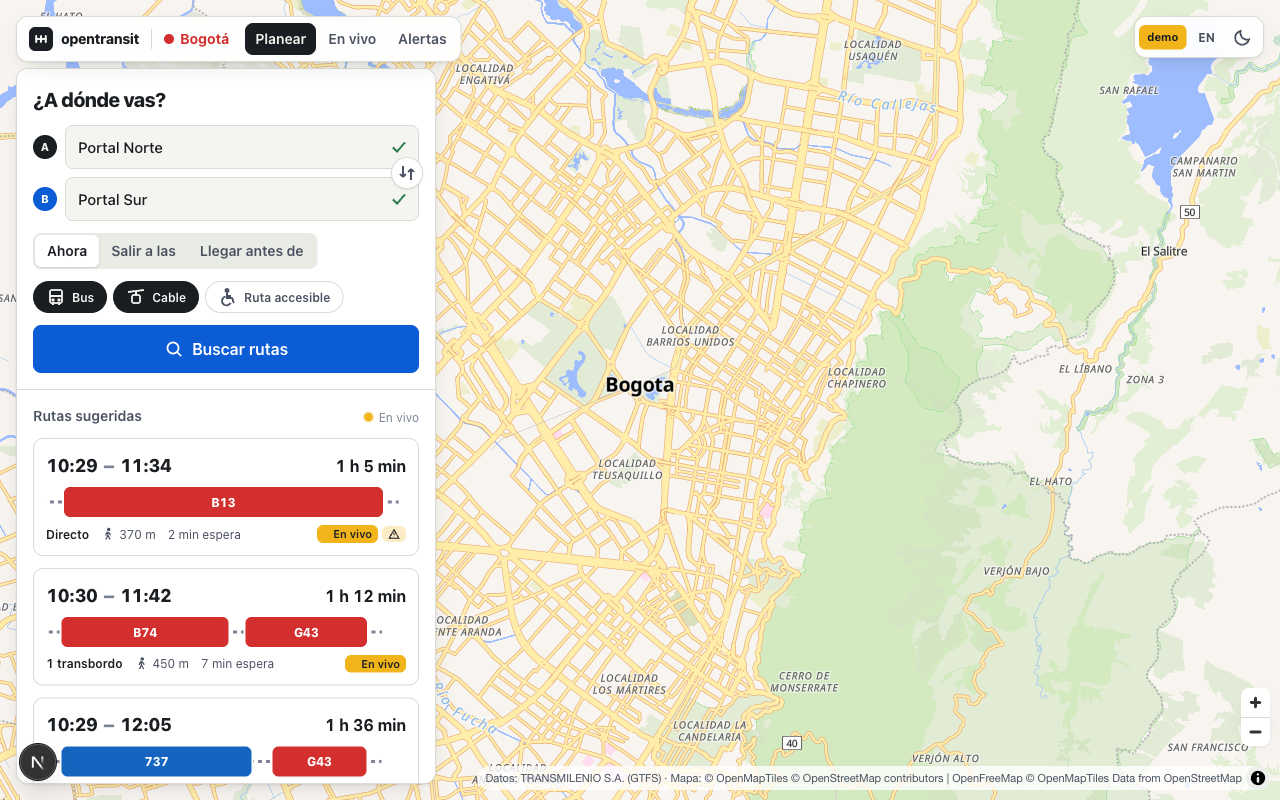
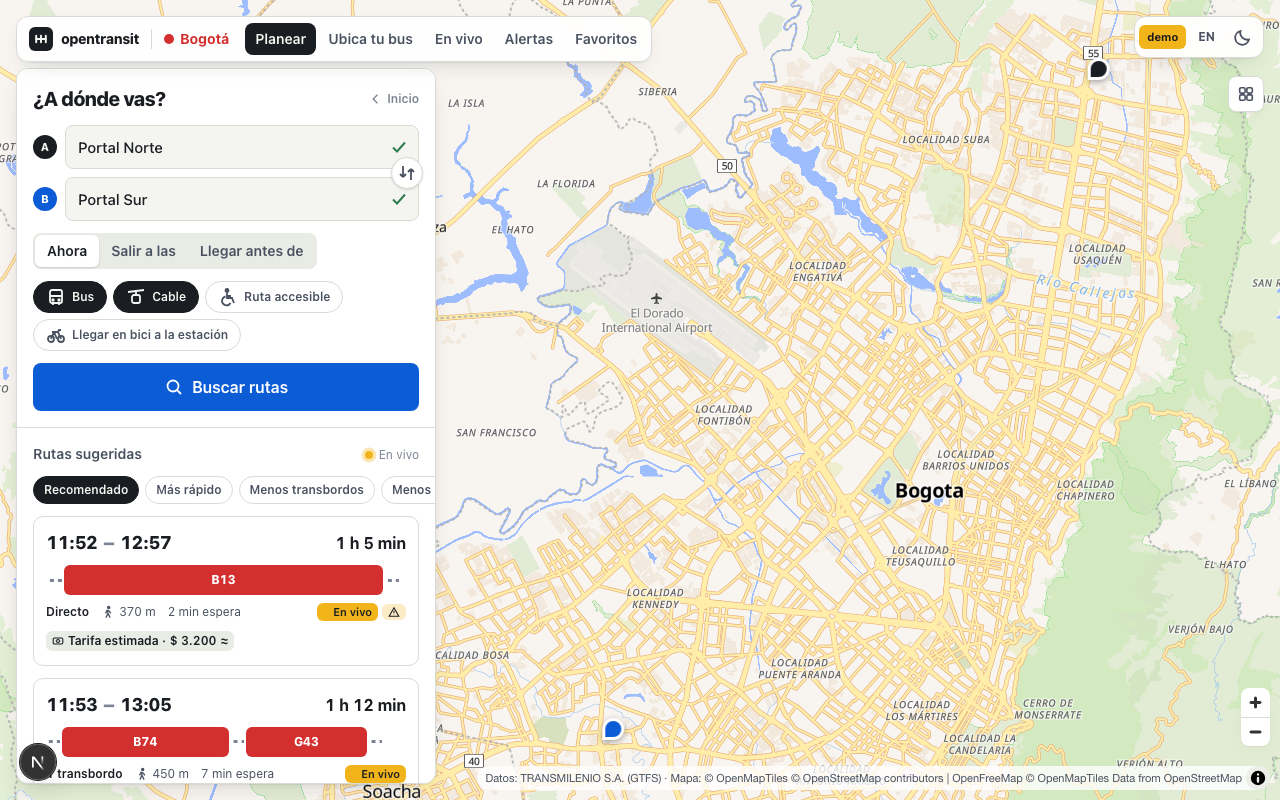
Docs: v1.1 README, screenshot script with warm-up and new screens
Claude-Session: https://claude.ai/code/session_01SDzEabQrP5XzwyWhHfsXyV

diff --git a/README.md b/README.md
@@ -7,31 +7,47 @@ This repo is the browser UI only. It talks to [`opentransit-api`](../opentransit
 else with [`opentransit-mobile`](../opentransit-mobile) (Flutter) besides the API contract.
 
 <p>
-  <img src="docs/screenshots/planner-desktop.png" alt="Planner with itineraries" width="640">
+  <img src="docs/screenshots/hub-desktop.png" alt="Home hub: question-led tiles, nearby stops, notices" width="640">
 </p>
 <p>
-  <img src="docs/screenshots/itinerary-mobile.png" alt="Itinerary detail on mobile" width="180">
-  <img src="docs/screenshots/planner-mobile.png" alt="Planner on mobile" width="180">
-  <img src="docs/screenshots/live-mobile.png" alt="Live buses on mobile" width="180">
-  <img src="docs/screenshots/stop-mobile.png" alt="Stop departures on mobile" width="180">
+  <img src="docs/screenshots/hub-mobile.png" alt="Home hub on mobile" width="150">
+  <img src="docs/screenshots/next-mobile.png" alt="Ubica tu bus on mobile" width="150">
+  <img src="docs/screenshots/stop-mobile.png" alt="Arrival board on mobile" width="150">
+  <img src="docs/screenshots/itinerary-mobile.png" alt="Itinerary with estimated fare on mobile" width="150">
+  <img src="docs/screenshots/favorites-mobile.png" alt="Favorites on mobile" width="150">
+</p>
+<p>
+  <img src="docs/screenshots/next-desktop.png" alt="Ubica tu bus: station, route, next buses with live/scheduled labels and ETA-tinted markers" width="640">
 </p>
 
-The shots above use mock data. `docs/screenshots/*-live-api.png` were taken against a running
-`opentransit-api` with the live Bogotá GTFS + GTFS-Realtime feeds (5 real itineraries, ~5,900 buses on the stream).
+The shots above use mock data (`pnpm screenshots`). `docs/screenshots/*-live-api.png` are taken against a running
+`opentransit-api` with the live Bogotá GTFS + GTFS-Realtime feeds.
 
 ## What it does
 
 | Route | Screen |
 |---|---|
 | `/` | City picker (auto-redirects when the API serves one city) |
-| `/{city}` | Map + planner: origin/destination with autocomplete, "use my location", pick on map, depart/arrive time, mode chips, accessible trips, itinerary cards, itinerary detail with leg timeline, walk directions, realtime badges and alerts; live buses on the itinerary's routes |
-| `/{city}/stops/{stopId}` | Stop/station page with departures (auto-refresh every 20 s), routes, nearby stops |
-| `/{city}/routes/{routeId}` | Route patterns on the map, stop list, live vehicles, alerts |
-| `/{city}/live` | Whole fleet in real time (SSE stream with deltas), filter by component or route, click a bus for details |
-| `/{city}/alerts` | Service alerts, most severe first |
+| `/{city}` | **Home hub** ("Hola, ¿qué quieres consultar?"): tiles for every module, Casa/Trabajo shortcuts, "mensajes de interés" carousel (severity-sorted, dismissible, capped impressions), nearby stations card, recent trips, agency services |
+| `/{city}?view=plan` | **Planner**: origin/destination with nearby-first autocomplete, "use my location", pick on map, depart/arrive time, mode chips, accessible trips, "Llegar en bici a la estación", sorting chips (más rápido · menos transbordos · menos caminata · más económico · salida más próxima), itinerary cards with **Tarifa estimada**, itinerary detail with leg timeline, walk directions, live/scheduled badges, service-hours warnings, alerts, **Iniciar viaje** follow-along; live buses on the itinerary's routes, interpolated between frames |
+| `/{city}/next` | **Ubica tu bus**: station → route → next buses, each row labeled En vivo / Por programación / Estimado, buses on the map tinted by ETA bucket (≤5 / ≤10 / ≤15 min) |
+| `/{city}/stops/{stopId}` | **Arrival board** grouped by route ("Siguiente en 5 min · luego 10, 15 y 20"), freshness label, ETA-tinted buses heading here, routes, honest accessibility block ("dato no verificado" when the feed value is a blanket default), platforms, nearby stops, QR code, PQRS link, favorite star |
+| `/{city}/routes` | Route finder by code or name, filtered by component, with service hours |
+| `/{city}/routes/{routeId}` | Route patterns on the map, stop list, live vehicles, service window ("Fuera de horario · próximo 04:00"), alerts, QR code, favorite star |
+| `/{city}/live` | Whole fleet in real time (SSE stream with deltas, interpolated motion), filter by component or route, `?stop=` tints buses by ETA to that stop, click a bus for details |
+| `/{city}/favorites` | Casa, Trabajo and custom places, favorite stops with their next departures, favorite routes with service hours, recent trips — all local to the browser |
+| `/{city}/alerts` | Service alerts, most severe first, with the agency's official PQRS channel |
 | `/about` | Project, stack, data attribution |
 
-Planner state lives in the URL (`?from=lat,lon&fromName=…&to=…&time=…&arriveBy=1&modes=…&wheelchair=1&it=0`),
+Every map has a **Servicios** toggle (bike parking, toilets, ATMs, health points, libraries from `/pois`).
+Component taxonomy (Troncal, Alimentador, Dual, Zonal, Cable…) with its icons and colors comes from `city.components`.
+Remote config from `/v1/cities/{city}` drives poll intervals, feature flags (modules disappear from the nav and the hub),
+and a maintenance banner. Deep links (`/{city}/stops/{id}`, `/{city}/routes/{id}`, `/{city}/plan…`) are the canonical
+URLs printed in the QR codes; the mobile app claims them as App Links.
+
+Where these ideas come from: the v1.1 feature plan in `../ROADMAP-v1.1.md` (TransMi App and Maas by Vettica, analysed in `../REFERENCE-APPS.md`).
+
+Planner state lives in the URL (`?from=lat,lon&fromName=…&to=…&time=…&arriveBy=1&modes=…&wheelchair=1&bike=1&it=0&view=plan`),
 so every plan is a shareable link. Spanish by default, English with one click. Light/dark theme. PWA manifest.
 
 Nothing city-specific is hardcoded: name, colors, timezone, modes, feature flags and attribution come from the
@@ -45,6 +61,7 @@ cp .env.example .env.local
 
 pnpm dev:mock     # realistic Bogotá fixtures, no backend needed → http://localhost:3000
 pnpm dev          # against NEXT_PUBLIC_API_URL (default http://localhost:8001)
+# if 3000 is taken: pnpm dev:mock -p 3100
 ```
 
 `pnpm build && pnpm start` for production, or `docker build -t opentransit-web .`
@@ -63,9 +80,10 @@ Both are inlined at build time (they are `NEXT_PUBLIC_*`), so the Docker image b
 
 `NEXT_PUBLIC_MOCK=1` swaps the fetch layer for `src/mocks/handlers.ts`, which answers every contract endpoint with
 Bogotá-shaped data: 60 stops along the real Autopista Norte / Av. Caracas / NQS corridors, 12 routes, three
-itineraries Portal Norte → Portal Sur (direct, one transfer, zonal + trunk), 220 vehicles that move along their
-shapes every 4 s through the same SSE consumer the real stream uses, departures, and three alerts.
-It's what CI builds against and what `pnpm screenshots` uses.
+itineraries Portal Norte → Portal Sur (direct, one transfer, zonal + trunk) with estimated fares, 220 vehicles that
+move along their shapes every 4 s through the same SSE consumer the real stream uses, departures, the v1.1 arrival
+board and "next buses" endpoints, station POIs, service windows, accessibility flags, remote config and three alerts.
+It's what CI builds against and what `pnpm screenshots` uses (`BASE_URL=http://localhost:3100 pnpm screenshots`).
 
 ## How it talks to the API
 
